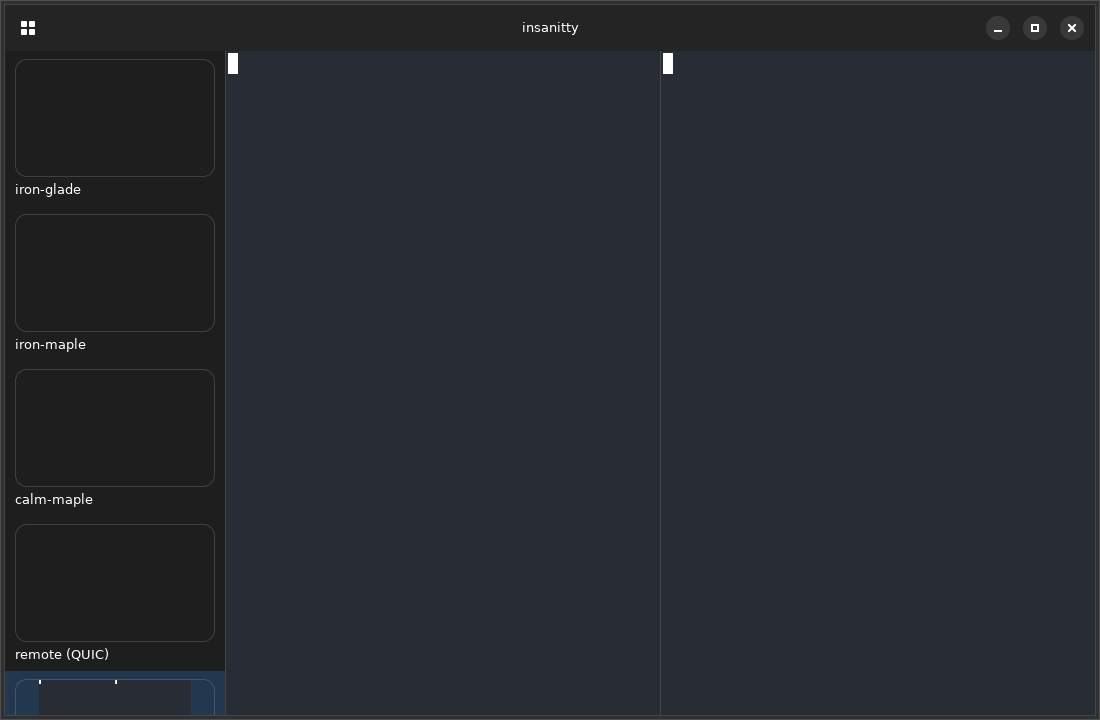
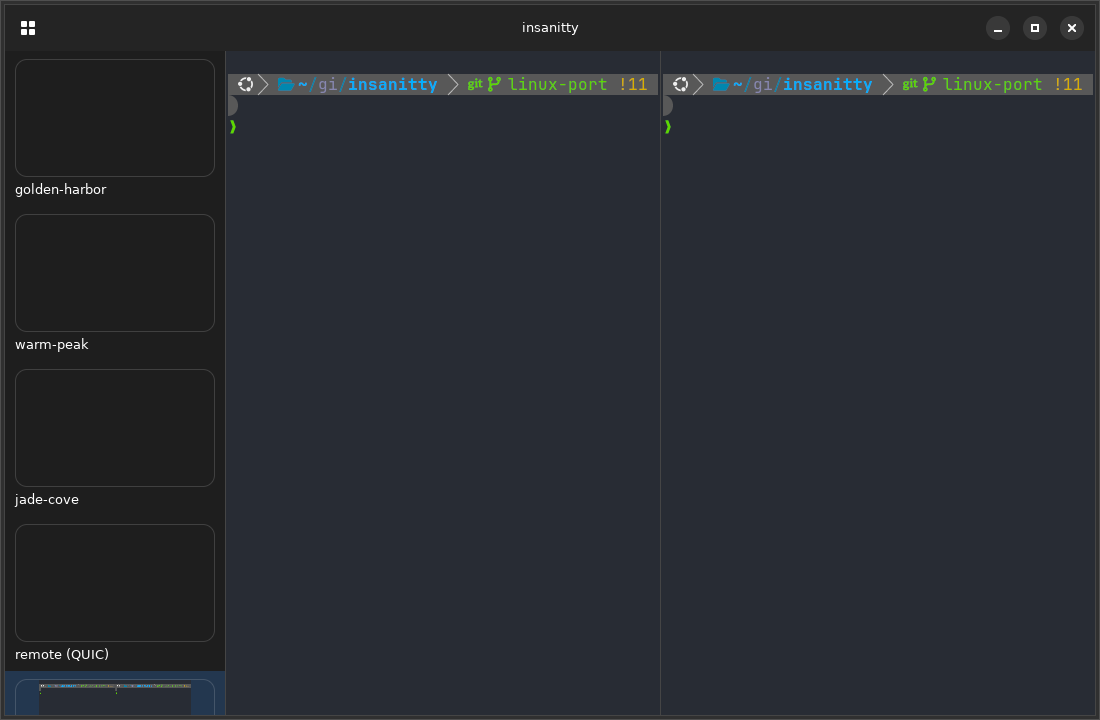
fix: size tmux control client to the surfaces (refresh-client -C) so panes render
A detached tmux session is tiny and a -CC control client's pty size doesn't drive the
window size, so split panes rendered into a sliver of their large surfaces (near-empty).
Report the client size with `refresh-client -C <cols>x<rows>` on attach, estimated from the
realized pane container — tmux then sizes the window/panes to match the surfaces. Both panes
of a split now render their content (docs/images/tmux-control-split.png shows the prompt in
each pane). The split e2e now also asserts a pane rendered.

Completes panes→splits for tmux control mode. windows→tabs is the remaining piece.

Claude-Session: https://claude.ai/code/session_01XLxKNRUgPBDkQ3UXC8bPwP

diff --git a/app/main.swift b/app/main.swift
@@ -536,7 +536,15 @@ func makeControlModeWorkspacePage() -> OpaquePointer? {
     if let tree = TmuxLayoutParser.parse(layoutStr) { rebuildControlPanes(tree) }
 
     // Start the control client once the surfaces have realized; it then injects tmux output.
+    // Estimate the window's cell size from the realized container so tmux sizes panes to match.
     let startCb: @convention(c) (UnsafeMutableRawPointer?) -> gboolean = { _ in
+        if let c = ctrlPaneContainer {
+            let w = Int(gtk_widget_get_width(P(c))), h = Int(gtk_widget_get_height(P(c)))
+            if w > 0, h > 0 {
+                ctrlClient?.sizeCols = max(40, min(400, w / 8))   // ~8px per cell column
+                ctrlClient?.sizeRows = max(10, min(200, h / 17))  // ~17px per cell row
+            }
+        }
         ctrlClient?.start(); return 0
     }
     g_timeout_add(1500, startCb, nil)

diff --git a/app/TmuxControl.swift b/app/TmuxControl.swift
@@ -21,6 +21,9 @@ final class TmuxControlClient {
     var defaultPane: Int?
     /// The pane to route keystrokes to right now.
     var inputPane: Int? { activePane ?? defaultPane }
+    /// The window size (cells) reported to tmux via refresh-client, so panes match the surfaces.
+    var sizeCols = 110
+    var sizeRows = 38
 
     /// Look up or create the surface a pane's output should be injected into (main thread).
     var surfaceForPane: ((_ pane: Int) -> OpaquePointer?)?
@@ -44,6 +47,9 @@ final class TmuxControlClient {
         }
         let retained = Unmanaged.passRetained(self).toOpaque()
         g_unix_fd_add(masterFD, G_IO_IN, tmuxFDReadable, retained)
+        // Tell tmux this control client's size so it sizes the window/panes to match the surfaces
+        // (a detached session is tiny, and a -CC client's pty size doesn't drive the window).
+        send("refresh-client -C \(sizeCols)x\(sizeRows)")
         FileHandle.standardError.write(Data("tmux-cc: attached \(session) (fd \(masterFD))\n".utf8))
         return true
     }

diff --git a/docs/PARITY.md b/docs/PARITY.md
@@ -49,7 +49,7 @@ The sections below are the unvarnished detail.
 
 | Fantastty | insanitty | Notes |
 |---|---|---|
-| **tmux control mode (`-CC`)**: `TmuxControlClient`, protocol parser, V2 runtime, layout parser/mapper — windows↔tabs, panes↔splits, live layout sync | **PARTIAL — interactive single pane** (`TmuxControlParser`/`TmuxLayoutParser` + live `TmuxControlClient`, `app/TmuxControl.swift`) | Parser foundation (12 tests) **plus a live, interactive control client**: spawns `tmux -CC attach` in a PTY (`ins_pty_spawn`/`forkpty`), reads the protocol on the GTK main loop (`g_unix_fd_add`), renders a pane by injecting `%output` into a silent Ghostty surface, **and routes keystrokes back via `send-keys`** — typed input runs in the real session and the result paints back (`scripts/e2e-tmux-control.sh`). **Panes→splits**: a window's `%layout-change`/`#{window_layout}` is parsed and mapped onto a `GtkPaned` tree of silent surfaces (one per pane), reused across relayouts (`scripts/e2e-tmux-control-split.sh` builds a 2-pane split). Remaining: sync each pane's size to its surface (`refresh-client -C`) so content fills the pane, and fan multiple windows→tabs. The default workspaces still use plain `tmux new-session -A`. |
+| **tmux control mode (`-CC`)**: `TmuxControlClient`, protocol parser, V2 runtime, layout parser/mapper — windows↔tabs, panes↔splits, live layout sync | **PARTIAL — interactive single pane** (`TmuxControlParser`/`TmuxLayoutParser` + live `TmuxControlClient`, `app/TmuxControl.swift`) | Parser foundation (12 tests) **plus a live, interactive control client**: spawns `tmux -CC attach` in a PTY (`ins_pty_spawn`/`forkpty`), reads the protocol on the GTK main loop (`g_unix_fd_add`), renders a pane by injecting `%output` into a silent Ghostty surface, **and routes keystrokes back via `send-keys`** — typed input runs in the real session and the result paints back (`scripts/e2e-tmux-control.sh`). **Panes→splits**: a window's `%layout-change`/`#{window_layout}` is parsed and mapped onto a `GtkPaned` tree of silent surfaces (one per pane), reused across relayouts; the client reports its size via `refresh-client -C` so panes render at the right size (`scripts/e2e-tmux-control-split.sh` builds **and renders** a 2-pane split). Remaining: fan multiple windows→tabs. The default workspaces still use plain `tmux new-session -A`. |
 | Attach to existing session (local + SSH), `TmuxAttachSheet` | **ABSENT** | No attach UI. |
 | SSH remote tmux (`ssh -t … tmux -CC`) | **ABSENT** | |
 | `persistentSessions` toggle (default **off**), restore layout on launch | **PARTIAL** | tmux persistence is always-on for the primary shell and **verified** (`e2e-persistence.sh`: a process outlived an app kill, V1<V2<V3). But there is **no layout restore** — only the tmux server retains the shell; the app rebuilds a fresh default workspace set each launch. |